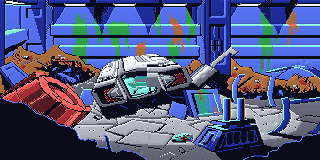
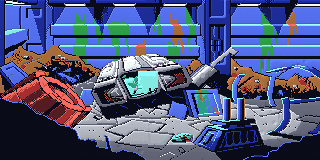
Remove the patched state variants (they looked wrong), clean the remaining Roger traces in the crash site and tube entrance
Claude-Session: https://claude.ai/code/session_01KMMpWo1pAxVCtPqbSi1RBM

diff --git a/tools/paint/build_act1.py b/tools/paint/build_act1.py
@@ -37,7 +37,7 @@ ZONES = {
 OUT = "../../assets/backgrounds/"
 # name: (screen number, boxes to erase: Roger and other figures, in 320x200 screen coordinates)
 SPEC = {
-    "crash_site": (14, [(137, 84, 156, 112)]),            # crash site (Roger is painted out of the pod window)
+    "crash_site": (14, [(138, 94, 157, 114, 11)]),            # crash site (Roger is painted out of the pod window)
     "junk_field": (15, [(110, 98, 124, 128)]),
     "junk_tower": (16, [(236, 40, 256, 72)]),
     "wire_tube": (26, [(152, 122, 174, 152), (180, 120, 214, 152)]),
@@ -47,7 +47,7 @@ SPEC = {
     "rail_window": (20, [(134, 126, 164, 162)]),
     "rail_tower": (21, [(234, 136, 264, 168)]),
     "dark_room": (23, [(80, 108, 98, 128)]),
-    "tube_entrance": (25, [(48, 90, 70, 124)]),
+    "tube_entrance": (25, [(44, 116, 72, 152)]),
     "yard": (22, []),
     "yard_ladder": (28, [(190, 74, 212, 100)]),   # painted out using the same yard from screen 22
     "cockpit": (29, []),
@@ -62,12 +62,7 @@ CLASSES = {}
 # picture states: the same room after something was taken. name: (base room, boxes to erase, in 320x200 screen coordinates).
 # The variant is rendered from the same source with the extra boxes erased and copied over the base only inside those boxes,
 # so everything else stays identical to the base picture.
-STATES = {
-    "wire_tube_nowire": ("wire_tube", [(130, 76, 222, 106)]),
-    "dark_room_noreactor": ("dark_room", [(124, 108, 196, 164, -72, 0)]),
-    "yard_nomot": ("yard", [(14, 74, 92, 126, 0, 50)]),
-    "yard_ladder_nomot": ("yard_ladder", [(14, 74, 92, 126, 0, 50)]),
-}
+STATES = {}      # no picture variants: copying nearby patches over taken objects looked wrong, so the pictures stay as the originals
 
 
 def main():

diff --git a/tools/paint/restyle.py b/tools/paint/restyle.py
@@ -86,6 +86,10 @@ def erase_boxes(lab, boxes, top=10):
     row from the labels just outside it (left half from the left, right half from the right, flat if both agree)"""
     h, w = lab.shape
     for box in boxes:
+        if len(box) == 5:          # flat fill with one colour label (e.g. the glass of a window)
+            x0, y0, x1, y1, col = box
+            lab[max(0, y0 - top):y1 - top + 1, x0:x1 + 1] = col
+            continue
         if len(box) == 6:          # clone stamp: copy the labels from a patch of the same picture shifted by (dx, dy)
             x0, y0, x1, y1, dx, dy = box
             ya, yb = max(0, y0 - top), min(h - 1, y1 - top)
@@ -151,6 +155,7 @@ def restyle(path, rows=160, top=10, height=190, seed=3, light=0.07, edge=0.12, g
     idx = load_indices(path, top, height)
     lab = dedither(idx)
     four = [e for e in erase if len(e) == 4]
+    fills = [e for e in erase if len(e) == 5]
     clones = [e for e in erase if len(e) == 6]
     if donor is not None and four:
         # the same scene without the figure: copy the labels from there instead of guessing them
@@ -161,6 +166,8 @@ def restyle(path, rows=160, top=10, height=190, seed=3, light=0.07, edge=0.12, g
         lab = erase_boxes(lab, four, top)
     if clones:
         lab = erase_boxes(lab, clones, top)
+    if fills:
+        lab = erase_boxes(lab, fills, top)
     # resample rows (the picture is squeezed vertically to fit the game's picture area)
     ys = np.minimum(((np.arange(rows) + 0.5) * height / rows).astype(int), height - 1)
     lab = lab[ys]

diff --git a/docs/ACT1_STATUS.md b/docs/ACT1_STATUS.md
@@ -3,7 +3,7 @@
 Done
 - 14 rooms rebuilt from the original screens in the Lucasfilm style (organic / artificial / worn artificial), docs/ART_PRINCIPLES.md
 - Room map, puzzles, timers and deaths on the original layout (docs/ACT1_PLAN.md); full-route test = exactly 145 points
-- Picture states: the tube without its wires, the dark room without the reactor, the yard without the motivator (and with it seated), a painted ladder at the tube entrance
+- Pictures stay as the originals (no state variants: patching erased objects looked wrong; the ladder at the tube entrance is painted in code)
 - Cutscene (takeoff, blast, escape) from the original frames; the ship's computer in the original screen layout (flight screen, weapons screen)
 - Roger: original outfit, side / front / back, pick-up gesture; rats' eyes and the conveyor belt animated
 - Sound (synthesised): points, pickup, click, lift, takeoff, blast, death jingle, squeak, steal
